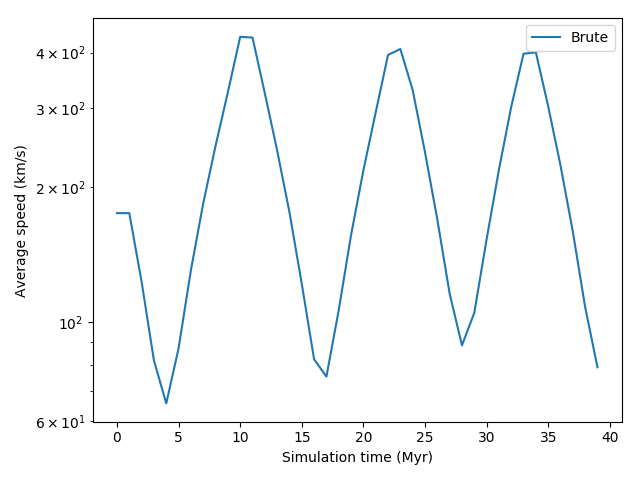
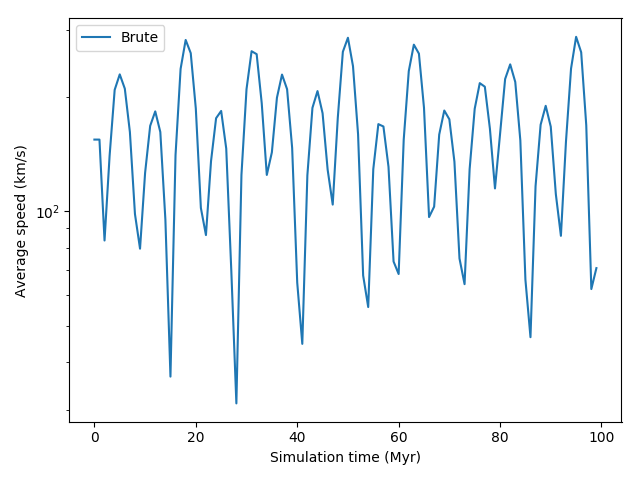
just brute, but that is going too slowly!

diff --git a/src/main.py b/src/main.py
@@ -11,13 +11,10 @@ import numpy as np
 import time
 import os
 
-#from globular_clusters_in_galaxy import parent_worker, sub_worker, py_worker
-from nemesis import Nemesis, HierarchicalParticles, system_type
+from nemesis import Nemesis, HierarchicalParticles
 
 #Circumvent a problem with using too many threads on OpenMPI
-#os.environ["OMPI_MCA_rmaps_base_oversubscribe"] = "yes"
-
-#chapter 7 AMUSE textbook
+os.environ["OMPI_MCA_rmaps_base_oversubscribe"] = "yes"
 
 class GalacticCenterGravityCode(object):
     def __init__(self, R, M, alpha):
@@ -335,9 +332,9 @@ def main(Rgal, Mgal, alpha, gravity_solvers, Nclusters, Nstars, W0, M,
 if __name__ == '__main__':
 
     Mgal, Rgal, alpha = 1.6e10|units.MSun, 1000.|units.parsec, 1.2
-    Nclusters = 40
-    Nstars, W0cluster, Mcluster, Rcluster = 100, 1.5, 100.|units.MSun, 1.|units.parsec
-    Rinit = 1000.|units.parsec
+    Nclusters = 2
+    Nstars, W0cluster, Mcluster, Rcluster = 20, 1.5, 100.|units.MSun, 1.|units.parsec
+    Rinit = 500.|units.parsec
     parameters = [('epsilon_squared', 0.01|(units.parsec**2))]
     t_end, dt = 100.|units.Myr, 1.|units.Myr
 
